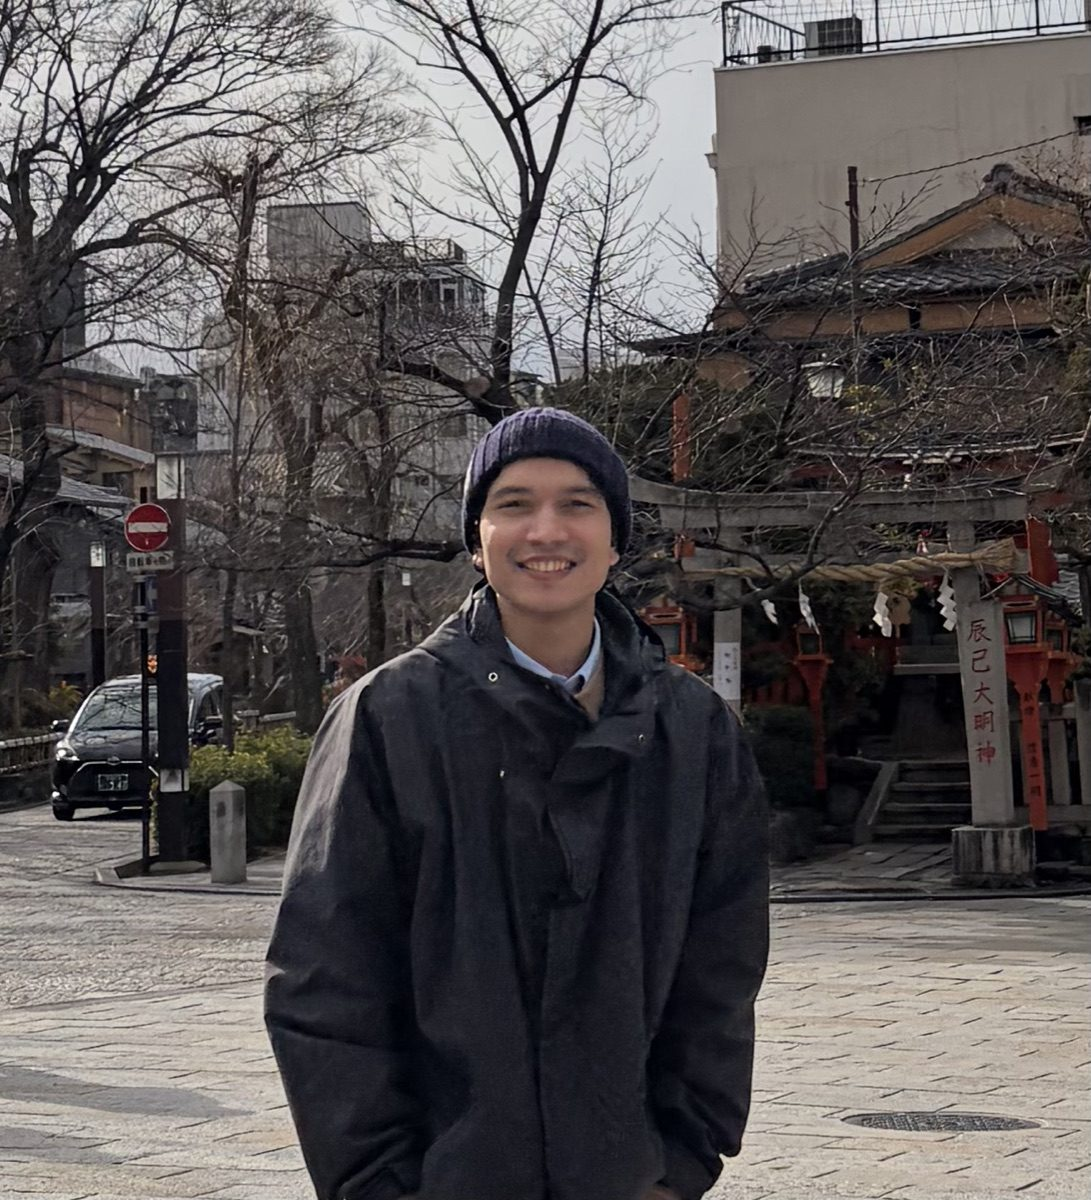
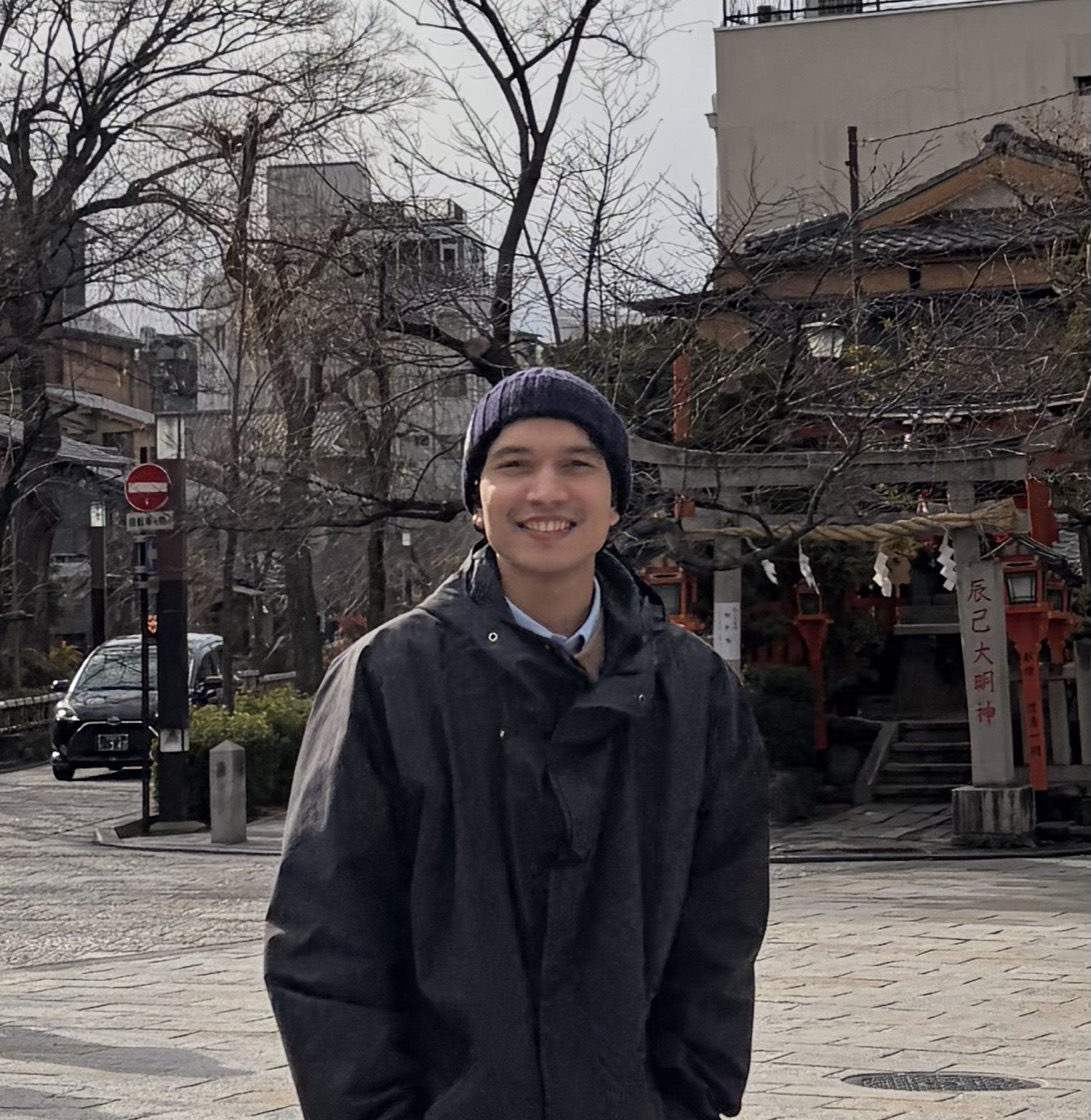
Personalize academic profile and navigation

diff --git a/_pages/about.md b/_pages/about.md
@@ -2,15 +2,15 @@
 layout: about
 title: about
 permalink: /
-subtitle: Computational biophysics · protein dynamics · reproducible research
+subtitle: Biophysics · protein dynamics · deep learning
 
 profile:
   align: right
   image: profile.jpg
   image_circular: false
   more_info: >
-    <p>Independent researcher</p>
-    <p>Protein dynamics & molecular simulation</p>
+    <p>Graduate student, Kyoto University</p>
+    <p>Shoji Takada Lab</p>
 
 selected_papers: false
 social: true
@@ -24,15 +24,6 @@ latest_posts:
   limit: 3
 ---
 
-I am **Kabindra Sony**, an independent researcher building a practical foundation in computational biophysics. My focus is how proteins move between structural states—and how simulations, structural data, and machine learning can help us reason about the transitions between them.
+I am **Kabindra Sony**, a graduate student at Kyoto University studying biophysics and researching protein dynamics with deep learning in the Shoji Takada Lab.
 
-My current work is exploratory and reproducibility-first: start with a well-studied benchmark system, make the data and evaluation explicit, and test whether a method adds information beyond interpolation or conventional simulation.
-
-I am especially interested in:
-
-- conformational ensembles and transient intermediate states
-- coarse-grained molecular dynamics and structural analysis
-- physics-aware generative models
-- open, small-scale computational experiments that others can rerun
-
-This site is a living research notebook: projects, notes, code, and evidence as they become real.
+I am interested in how proteins move between functional states and how data-driven models can help us understand those dynamics. This site is a place for my research notes, open projects, and publications as they become ready to share.

diff --git a/_pages/cv.md b/_pages/cv.md
@@ -4,22 +4,22 @@ title: CV
 permalink: /cv/
 description: A concise, evolving snapshot of my research direction and technical practice.
 nav: true
-nav_order: 4
+nav_order: 6
 ---
 
 ## Research focus
 
-Protein conformational dynamics, coarse-grained molecular simulation, structural analysis, and physics-aware generative modeling.
+Biophysics, protein dynamics, and deep learning.
 
 ## Current projects
 
-- **Physics-aware conformational ensembles** — defining a held-out benchmark for generated intermediate structures.
+- **Protein dynamics with deep learning** — studying how data-driven models can help describe molecular motion.
 - **AlphaFold from first principles (toy)** — learning the mechanics of structure prediction through a small, reproducible implementation.
-- **Open research tooling** — documenting experiments so that the assumptions, data splits, and failure modes remain visible.
+- **Open research tooling** — documenting experiments so that the assumptions, data splits, and limitations remain visible.
 
 ## Technical practice
 
-Python · scientific computing · molecular simulation workflows · data analysis · machine learning experiments · technical writing
+Python · scientific computing · data analysis · deep-learning experiments · technical writing
 
 ## Contact
 

diff --git a/README.md b/README.md
@@ -16,6 +16,8 @@ Then open http://localhost:4000/kavi-web/.
 ## Content map
 
 - `_pages/about.md` — homepage biography and research focus
+- `_pages/publications.md` — publication list (currently empty)
+- `_pages/teaching.md` — teaching materials (currently empty)
 - `_projects/` — project pages shown in the portfolio
 - `_posts/` — dated research notes
 - `_data/socials.yml` — public contact links

diff --git a/_posts/2026-08-17-more-than-snapshots.md b/_posts/2026-08-17-more-than-snapshots.md
@@ -2,6 +2,7 @@
 layout: post
 title: "Why protein dynamics needs more than snapshots"
 date: 2026-08-17 00:00:00 +0900
+published: false
 description: "A short note on the gap between static structures, simulation trajectories, and testable generative models."
 tags: [biophysics, protein-dynamics, molecular-simulation]
 categories: [research-notes]

diff --git a/_pages/projects.md b/_pages/projects.md
@@ -2,7 +2,7 @@
 layout: page
 title: projects
 permalink: /projects/
-description: Small, testable projects at the boundary of protein physics and machine learning.
+description: Small, testable projects in biophysics, protein dynamics, and deep learning.
 nav: true
 nav_order: 2
 display_categories: [research, software]

diff --git a/_pages/blog.md b/_pages/blog.md
@@ -2,9 +2,9 @@
 layout: page
 title: notes
 permalink: /blog/
-description: Short technical notes, reading memos, and build logs.
+description: Short notes and reflections on biophysics, protein dynamics, and deep learning.
 nav: true
-nav_order: 3
+nav_order: 4
 ---
 
 <div class="posts">

diff --git a/_pages/publications.md b/_pages/publications.md
@@ -1,0 +1,10 @@
+---
+layout: page
+title: publications
+permalink: /publications/
+description: Publications will be listed here as the work becomes citable.
+nav: true
+nav_order: 3
+---
+
+No publications yet.

diff --git a/_pages/teaching.md b/_pages/teaching.md
@@ -1,0 +1,10 @@
+---
+layout: page
+title: teaching
+permalink: /teaching/
+description: Teaching materials and notes will be added here in the future.
+nav: true
+nav_order: 5
+---
+
+No teaching materials yet.
